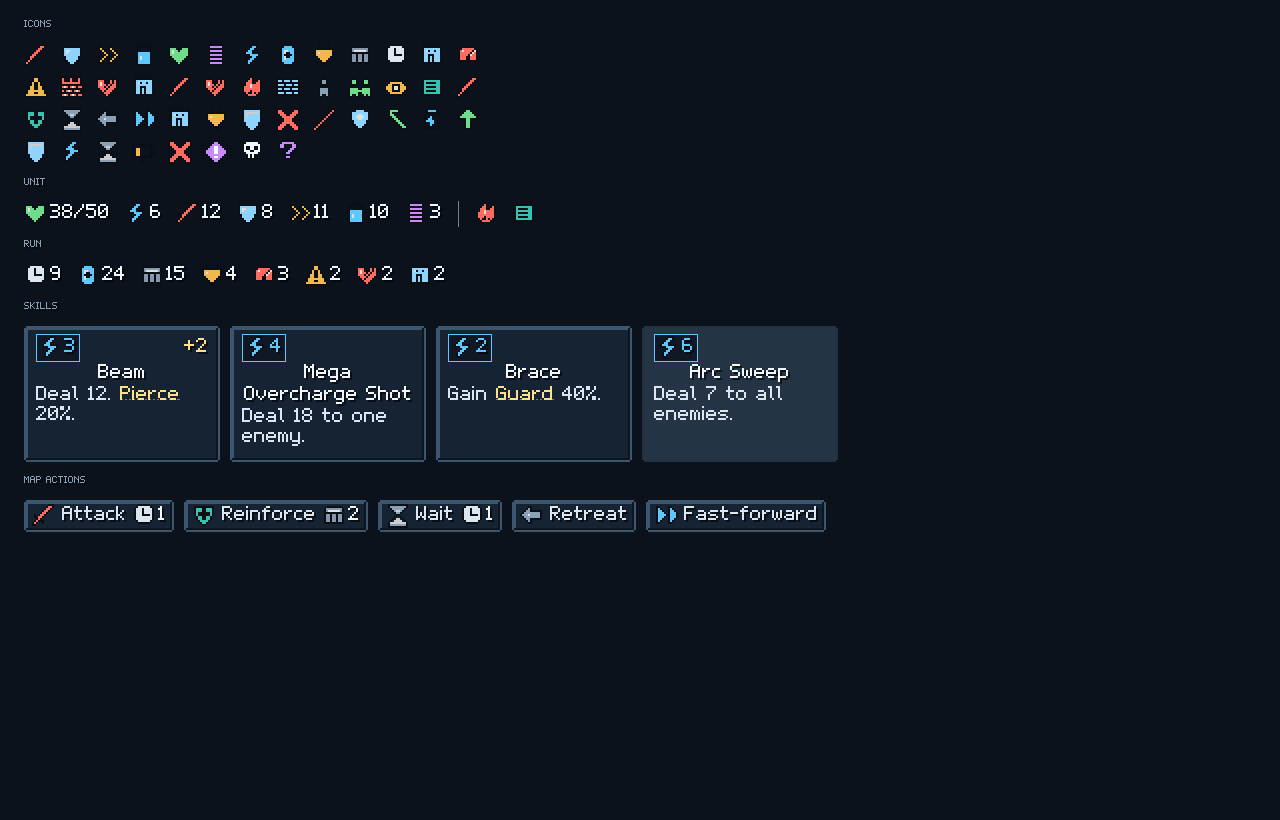
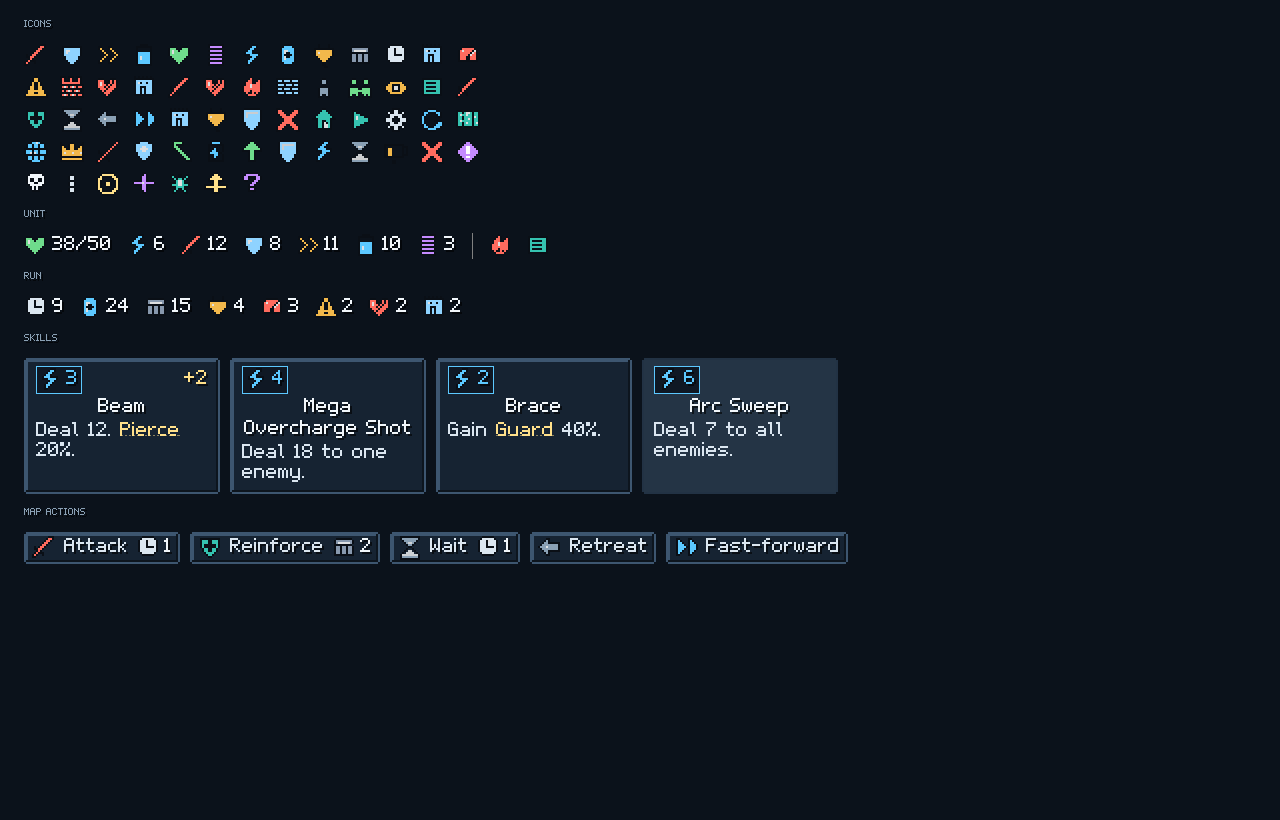
Design system: style rules 7-16, body-size tooltips, math lines, style check page and before/after shots
Claude-Session: https://claude.ai/code/session_017T3VQrBPAWDCpWnDARtLTq

diff --git a/ui/README.md b/ui/README.md
@@ -10,6 +10,14 @@ the rest.** The kit that does it lives in `ui/common/` (see its README);
 `ui/common/demo/ui_kit_demo.tscn` shows every piece, and
 `ui/common/screenshots/ui_kit.png` is the reference picture.
 
+Sections 7 to 16 are the **design system**: one card anatomy, one flag
+style, one control strip, three panel styles, an 8 px grid and color roles,
+so every screen reads as one game. The page that shows all of it is
+`ui/common/demo/style_check.tscn` (reference pictures
+`ui/common/screenshots/style_check*.png`); compare a screen against it. The
+rule behind all of it: **streamlined at rest, everything one click away. We
+relocate information, we never remove it.**
+
 ### 1. Icons and numbers, not labels
 
 Every stat, resource, status, intent, map action, region property and
@@ -24,6 +32,7 @@ Never write "ATK 12" or "Energy: 24"; write `IconStat.make("atk", 12)`.
 | Personality | `trait_aggressive`, `trait_defensive`, `trait_solitary`, `trait_supportive`, `trait_reactive`, `trait_methodical` |
 | Map actions | `action_attack`, `action_reinforce`, `action_wait`, `action_retreat`, `action_fast_forward` |
 | Enemy intents | `intent_attack`, `intent_guard`, `intent_heal`, `intent_charge`, `intent_buff` |
+| Cards and flags | `more` (the ⋮ of a card), `odds`, `elite`, `new`, `multiplier` |
 | Statuses | `status_guard`, `status_charging`, `status_waiting`, `status_low_energy`, `status_down`, `status_intent_changed` |
 
 Icons are named by id from `data/ui/icons.json` (texture, name, color, tooltip
@@ -99,6 +108,120 @@ Icons are 12 x 12 pixel art drawn at a whole-number scale (`icon_scale` in
 only. Art is generated or CC0, and every file is credited in `CREDITS.md`
 (a test checks this). Each icon differs by shape as well as color.
 
+### 7. Nothing over the art
+
+Portraits, unit sprites and the land of the map are never covered. Names,
+flags, buttons and stats sit in a strip **around** the art, never on top of
+it. The one exception is brief feedback that fades on its own: damage and
+heal popups, hit sparks. A map region shows at most one small pin, placed
+where it covers the least land, with the full card on hover.
+
+### 8. Card anatomy
+
+Every card for a unit or a region is an `InfoCard` with the same parts:
+
+| Part | What | Kit |
+|---|---|---|
+| Title strip | The name, and **⋮** on the right | `InfoCard`, `DetailModal.more_button` |
+| Flags | On the edge of the card, beside or above the art | `Flag`, `Flag.row` |
+| Portrait | The art, alone in its slot | any Control |
+| Stat strip | **Exactly three headline stats**, each with its own graphic | `StatStrip` |
+
+The three headlines are the numbers the player needs to decide; everything
+else goes in the detail modal. Each headline uses a different graphic so the
+three read apart without labels:
+
+| Graphic | For | Example |
+|---|---|---|
+| `bar` | a value out of a maximum | HP 38/50 |
+| `number` | one count, big | ATK 12 |
+| `ring` | a share or chance | odds 62% |
+| `arrow` | a multiplier | ×1.5 |
+| `pips` | a small level | defense 2 of 5 |
+| `chip` | a short word | next turn "2nd" |
+
+**⋮ or a right-click** on a card opens its `DetailModal`: the name, flags,
+every stat, skills with ranks, statuses, notes, links, in tabs when there is
+more than one kind of thing. Esc, the close button or a click outside close
+it. A unit with one of its kind has no index ("Precinct Overseer", not
+"Precinct Overseer 1").
+
+### 9. Flags
+
+A flag is a badge for one characteristic: Boss, Elite, Low HP, New,
+Fortified, Under attack, Uprising. One style everywhere: an icon and a short
+word on a fill tinted with its color role, no border, body-size text. A
+crowded edge may use compact flags (icon only, name on hover). Common flags
+live in `data/ui/flags.json` (`Flag.of("boss")`); a one-off uses
+`Flag.make(label, icon, role, line)`.
+
+### 10. One control strip per screen
+
+Each screen (or gallery) has one `ControlStrip`, always on the top edge of
+what it controls. Everything that changes **how** the screen shows things
+goes there, in this order: choices (Size, View, Lens, Group by, Sort) as
+segmented buttons, toggles (Log, Preview), then actions on the right (Home,
+speed). No view control lives anywhere else.
+
+### 11. Panels: three styles
+
+| Style | For | Look |
+|---|---|---|
+| `plain` | information | a flat fill, **no border** |
+| `card` | something you click, select or open | a fill and a border, brighter on hover |
+| `overlay` | above the screen: modal, drawer, tooltip | a raised fill, a border and a shadow |
+
+`UiStyle.panel("plain")` and so on. **Borders mean "you can click this".**
+Information sits on plain backgrounds; a box drawn round text that does
+nothing is a bug. No fourth style.
+
+### 12. Spacing on an 8 px grid
+
+Gaps and paddings come from `UiStyle.space()`: `xs` 4 (inside one control,
+such as an icon and its number), `s` 8, `m` 16, `l` 24, `xl` 32. Sizes of
+panels and cards are multiples of 8. A test checks the style check page.
+
+### 13. Text sizes
+
+The pixel font draws crisply at 10, 20 and 30. **Anything the player reads
+to play is at least body size (20)**: names, numbers, flags, buttons,
+tooltips, log lines, previews. Title size (30) is for names on a detail
+modal and screen headings. Small text (10) is only for a **caption**, a
+short all-caps heading over a group whose contents carry their own text
+(`UiStyle.caption(label)`). No tiny grey text for anything that matters.
+Quiet (grey) text is body size and only labels a value shown beside it.
+
+### 14. Color roles
+
+Name colors by role, not by hue: `UiStyle.role("bad")`. The roles and their
+palette colors are in `data/ui/ui_kit.json` `color_roles`:
+
+| Role | Means |
+|---|---|
+| `text`, `title`, `text_quiet` | reading text, names, labels for a value |
+| `interactive` | something you can press; the selected option |
+| `good`, `bad`, `caution` | gains and health; losses, danger, enemies' threat; warnings |
+| `info` | Energy and neutral numbers |
+| `ally`, `enemy` | sides |
+| `rare` | Boss, Elite, rare things |
+| `hint` | keywords, previews, the result of a formula |
+| `neutral` | down, inactive |
+
+### 15. Tooltips explain the math
+
+A number that comes from other numbers shows how in its tooltip, with the
+real values: `ATK 12 − DEF 8 × (1 − Pierce 20%) = 6`. Build the line with
+`UiFormula` (`UiFormula.parse("{ATK} − {DEF}", {"ATK": 12, "DEF": 8}, 4)`)
+and pass it as `math` to `StatStrip`, `IconStat.set_math`,
+`DetailModal.rows` or `UiTooltip.set_math`. A number from simulations says
+so: "Won 20 of 32 simulated fights".
+
+### 16. Tabs, changes and feedback
+
+Related content on one page goes in `UiTabs` (Region / Squad / Log; Summary /
+Growth / Details) rather than one long column. A visible UI change gets a
+line in the "What's new" card, which links to F8 feedback.
+
 ### Exceptions
 
 Dev tools (the F4 switchboard, `ui/dev/`) may stay text-heavy.
@@ -106,5 +229,6 @@ Dev tools (the F4 switchboard, `ui/dev/`) may stay text-heavy.
 ### Stand-ins
 
 TODO(decision: ui-style-icon-art): every icon is generated placeholder art.
+TODO(decision: ui-system-ring): the ring gauge is drawn arcs, not pixel art.
 TODO(decision: ui-style-bold): the pixel font has no bold face; names are
 "bold" by a one-pixel outline in their own color (`UiTooltip._bold`).

diff --git a/ui/common/README.md b/ui/common/README.md
@@ -27,7 +27,15 @@ holds a tunable number.
 | `icon_stat.gd` | `IconStat.make("atk", 12)`: icon + number + tooltip |
 | `skill_card.gd` | `SkillCard.make("Beam", 3, "Deal 12. Pierce 20%.", "+2")`: a skill as a card-like button |
 | `action_button.gd` | `ActionButton.make("action_reinforce", "Reinforce", "material", 2)`: icon + label + cost |
-| `demo/` | `theme_demo`, `feel_demo`, `sprite_demo`, `ui_kit_demo` scenes; `capture_screenshots.gd` and `capture_ui_kit.gd` render them |
+| `ui_style.gd` | `UiStyle`: the design system's rules as code: `space("s")`, `panel("plain")`, `role("bad")`, `caption(label)` |
+| `ui_formula.gd` | `UiFormula`: a formula line from real values for math tooltips: `UiFormula.parse("{ATK} − {DEF}", {...}, 4)` |
+| `stat_strip.gd` | `StatStrip`: a card's three headline stats, each its own graphic (bar, number, ring, arrow, pips, chip) |
+| `flag.gd` | `Flag.of("boss")`: the one badge style; catalog in `data/ui/flags.json` |
+| `info_card.gd` | `InfoCard`: the card anatomy (title + ⋮, flags, portrait, stat strip) |
+| `detail_modal.gd` | `DetailModal`: everything about a thing, from ⋮ or right-click; Esc closes |
+| `control_strip.gd` | `ControlStrip`: the one bar of view controls on a screen |
+| `ui_tabs.gd` | `UiTabs`: related pages under one row of tabs |
+| `demo/` | `style_check` (every design-system piece; `capture_style_check.gd`), `theme_demo`, `feel_demo`, `sprite_demo`, `ui_kit_demo` scenes; `capture_screenshots.gd` and `capture_ui_kit.gd` render them |
 
 ## Adopting it on a screen
 
